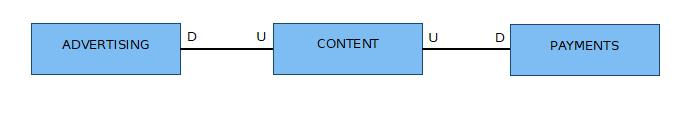
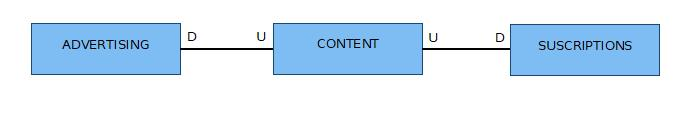
Suscriptions Unbounded Context is starting

Changed region(s): [[0.7521, 0.3451, 0.9026, 0.4779]]

diff --git a/src/test/java/com/joseatorralba/ddd/onlinenewspaper/domain/suscriptions/SuscriptionManagementTest.java b/src/test/java/com/joseatorralba/ddd/onlinenewspaper/domain/suscriptions/SuscriptionManagementTest.java
@@ -1,0 +1,44 @@
+package com.joseatorralba.ddd.onlinenewspaper.domain.suscriptions;
+
+import static org.junit.jupiter.api.Assertions.assertEquals;
+
+import org.junit.jupiter.api.Test;
+import org.junit.jupiter.api.extension.ExtendWith;
+import org.springframework.test.context.junit.jupiter.SpringExtension;
+
+@ExtendWith(SpringExtension.class)
+public class SuscriptionManagementTest {
+
+	@Test
+	public void givenNothing_whenCreate_thenInstanceCreated_test()	{
+		SuscriptionManagement susMng = new SuscriptionManagement();
+		
+		assertEquals(0, susMng.getUsers().size());
+	}
+	
+	@Test
+	public void givenRegisteredUser_whenRegisterUser_thenUserIsRegistered_test()	{
+		
+	}
+	
+	@Test
+	public void givenUnregisteredUser_whenRegisterUser_thenError_test()	{
+		
+	}
+
+	@Test
+	public void givenUserWithSuscription_whenCancelSuscription_thenDeactivationDateIsReturned_test()	{
+		
+	}
+
+	@Test
+	public void givenUserWithoutSuscription_whenCancelSuscription_thenEmptyIsReturned_test()	{
+		
+	}
+	
+	@Test
+	public void givenSomeUsers_whenGetRegisteredUsers_thenUserAreReturned_test()	{
+		
+	}
+	
+}

diff --git a/src/test/java/com/joseatorralba/ddd/onlinenewspaper/domain/suscriptions/UserTest.java b/src/test/java/com/joseatorralba/ddd/onlinenewspaper/domain/suscriptions/UserTest.java
@@ -1,0 +1,35 @@
+package com.joseatorralba.ddd.onlinenewspaper.domain.suscriptions;
+
+import org.junit.jupiter.api.Test;
+import org.junit.jupiter.api.extension.ExtendWith;
+import org.springframework.test.context.junit.jupiter.SpringExtension;
+
+@ExtendWith(SpringExtension.class)
+public class UserTest {
+	
+	@Test
+	public void givenUsername_whenCreate_thenUserIsCreated_test()	{
+		
+	}
+	
+	@Test
+	public void givenUserWithActiveSuscription_whenIsSuscribed_thenTrue_test()	{
+		
+	}
+	
+	@Test
+	public void givenUserWithNoActiveSuscription_whenIsSuscribed_thenFalse_test()	{
+		
+	}
+	
+	@Test
+	public void givenUserWithActiveSuscription_whenGetDeactivationDate_thenDateIsReturned_test()	{
+		
+	}
+	
+	@Test
+	public void givenUserWithNoActiveSuscription_whenGetDeactivationDate_thenEmptyIsReturned_test()	{
+		
+	}
+	
+}

diff --git a/src/main/java/com/joseatorralba/ddd/onlinenewspaper/domain/suscriptions/SuscriptionManagement.java b/src/main/java/com/joseatorralba/ddd/onlinenewspaper/domain/suscriptions/SuscriptionManagement.java
@@ -1,0 +1,14 @@
+package com.joseatorralba.ddd.onlinenewspaper.domain.suscriptions;
+
+import java.util.ArrayList;
+import java.util.List;
+
+import lombok.Getter;
+import lombok.NoArgsConstructor;
+
+@NoArgsConstructor
+@Getter
+public class SuscriptionManagement {
+
+	private List<User> users = new ArrayList<>();
+}

diff --git a/src/main/java/com/joseatorralba/ddd/onlinenewspaper/domain/suscriptions/User.java b/src/main/java/com/joseatorralba/ddd/onlinenewspaper/domain/suscriptions/User.java
@@ -1,0 +1,5 @@
+package com.joseatorralba.ddd.onlinenewspaper.domain.suscriptions;
+
+public class User {
+
+}
